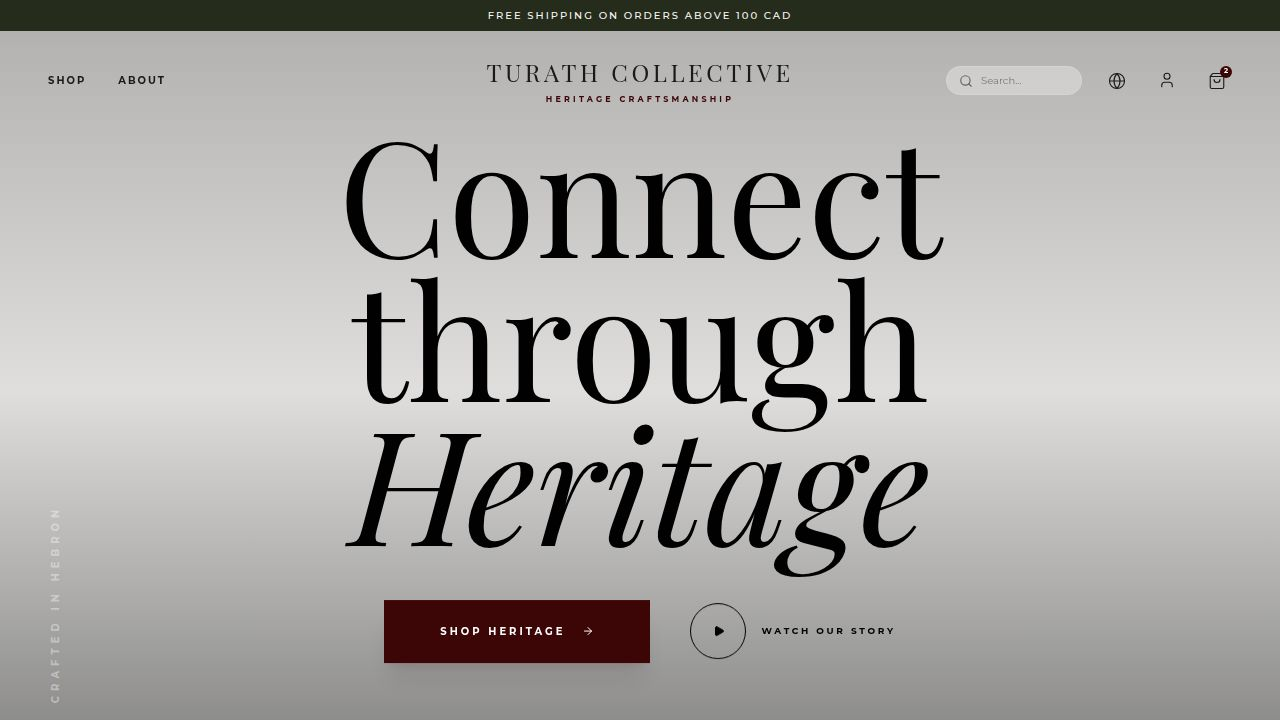
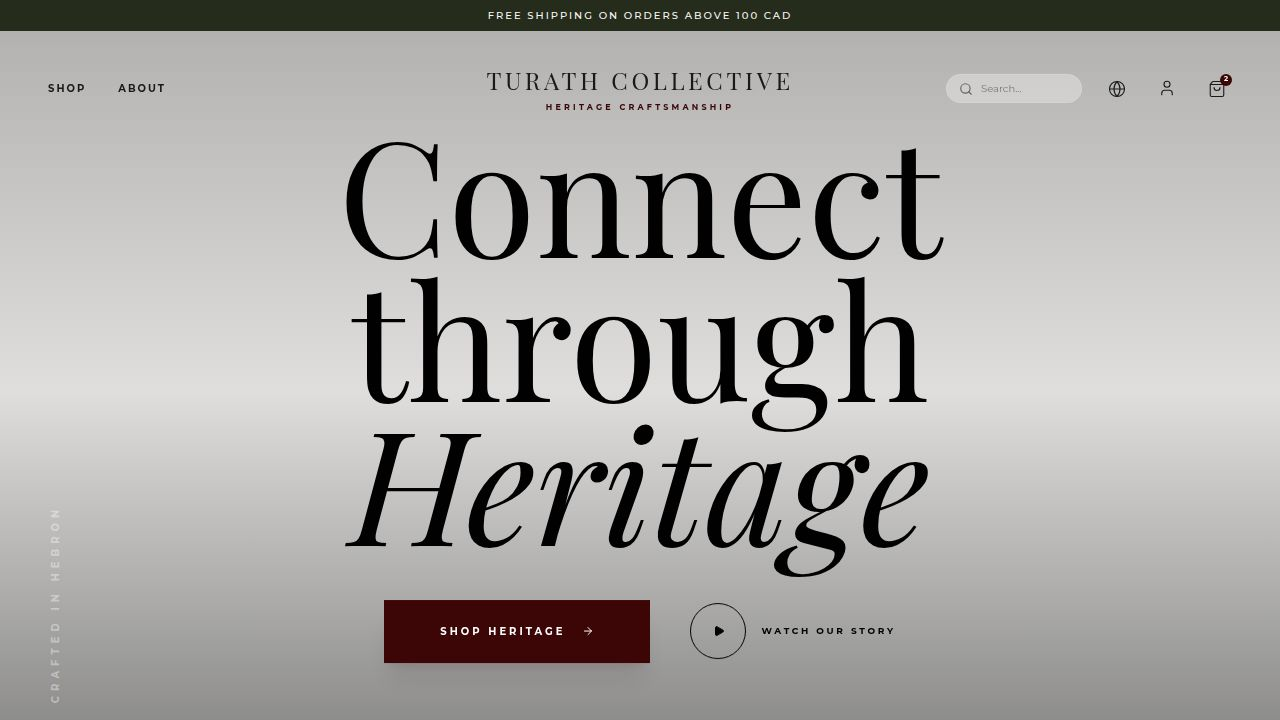
Add a contact page and form for users to send inquiries
Add a new page for users to contact the site, including a form for sending messages.

Replit-Commit-Author: Agent
Replit-Commit-Session-Id: 36f8a871-40c8-4fee-9f35-d568e16de37e
Replit-Commit-Checkpoint-Type: full_checkpoint
Replit-Commit-Event-Id: c0e1cae7-8b10-4ab0-96d2-557cdadff4e2
Replit-Commit-Screenshot-Url: https://storage.googleapis.com/screenshot-production-us-central1/19365814-f28b-4ee9-bb88-485e4eaf0447/36f8a871-40c8-4fee-9f35-d568e16de37e/t9Z69dB
Replit-Helium-Checkpoint-Created: true

diff --git a/client/src/pages/contact.tsx b/client/src/pages/contact.tsx
@@ -1,0 +1,149 @@
+import { motion } from "framer-motion";
+import { Mail, Phone, MapPin, Send } from "lucide-react";
+import { useState } from "react";
+import Navbar from "@/components/navbar";
+import { Button } from "@/components/ui/button";
+import { Input } from "@/components/ui/input";
+import { Label } from "@/components/ui/label";
+import { Textarea } from "@/components/ui/textarea";
+import { useToast } from "@/hooks/use-toast";
+
+export default function ContactPage() {
+  const { toast } = useToast();
+  const [isSubmitting, setIsSubmitting] = useState(false);
+
+  const handleSubmit = async (e: React.FormEvent) => {
+    e.preventDefault();
+    setIsSubmitting(true);
+    
+    // Simulating API call as this is mockup mode
+    // Real implementation would require backend graduation
+    setTimeout(() => {
+      toast({
+        title: "Message Sent",
+        description: "Thank you for reaching out. We'll get back to you soon.",
+      });
+      setIsSubmitting(false);
+      (e.target as HTMLFormElement).reset();
+    }, 1500);
+  };
+
+  return (
+    <main className="min-h-screen bg-background pt-32 pb-24">
+      <Navbar />
+      
+      <div className="container mx-auto px-6 md:px-12">
+        <div className="max-w-5xl mx-auto">
+          <header className="mb-20 text-center">
+            <motion.span 
+              initial={{ opacity: 0, y: 10 }}
+              animate={{ opacity: 1, y: 0 }}
+              className="text-[10px] uppercase tracking-[0.4em] text-primary font-bold mb-4 block"
+            >
+              Get in Touch
+            </motion.span>
+            <motion.h1 
+              initial={{ opacity: 0, y: 20 }}
+              animate={{ opacity: 1, y: 0 }}
+              transition={{ delay: 0.1 }}
+              className="font-serif text-5xl md:text-7xl mb-6"
+            >
+              Connect with <br />
+              <span className="italic font-light">The Collective</span>
+            </motion.h1>
+          </header>
+
+          <div className="grid grid-cols-1 lg:grid-cols-2 gap-20">
+            {/* Contact Info */}
+            <motion.div 
+              initial={{ opacity: 0, x: -20 }}
+              animate={{ opacity: 1, x: 0 }}
+              transition={{ delay: 0.2 }}
+              className="space-y-12"
+            >
+              <div>
+                <h3 className="font-serif text-2xl mb-8">Visit our Montreal Studio</h3>
+                <div className="space-y-6">
+                  <div className="flex gap-4 items-start">
+                    <MapPin className="w-5 h-5 text-primary shrink-0 mt-1" />
+                    <div>
+                      <p className="text-sm font-bold uppercase tracking-widest mb-1">Address</p>
+                      <p className="text-muted-foreground font-light leading-relaxed">
+                        1234 Heritage Way, Plateau Mont-Royal<br />
+                        Montreal, QC H2X 3Y4, Canada
+                      </p>
+                    </div>
+                  </div>
+                  
+                  <div className="flex gap-4 items-start">
+                    <Mail className="w-5 h-5 text-primary shrink-0 mt-1" />
+                    <div>
+                      <p className="text-sm font-bold uppercase tracking-widest mb-1">Email</p>
+                      <p className="text-muted-foreground font-light">hello@turathcollective.com</p>
+                    </div>
+                  </div>
+
+                  <div className="flex gap-4 items-start">
+                    <Phone className="w-5 h-5 text-primary shrink-0 mt-1" />
+                    <div>
+                      <p className="text-sm font-bold uppercase tracking-widest mb-1">Phone</p>
+                      <p className="text-muted-foreground font-light">+1 (514) 555-0123</p>
+                    </div>
+                  </div>
+                </div>
+              </div>
+
+              <div className="pt-12 border-t border-border/50">
+                <h3 className="font-serif text-2xl mb-6">Wholesale & Press</h3>
+                <p className="text-muted-foreground font-light leading-relaxed mb-6">
+                  Interested in partnering with us or featuring our artisans? We'd love to hear from you.
+                </p>
+                <a href="mailto:partners@turathcollective.com" className="text-[10px] uppercase tracking-widest font-bold border-b border-primary/30 pb-1 hover:border-primary transition-colors">
+                  partnerships@turathcollective.com →
+                </a>
+              </div>
+            </motion.div>
+
+            {/* Contact Form */}
+            <motion.div 
+              initial={{ opacity: 0, x: 20 }}
+              animate={{ opacity: 1, x: 0 }}
+              transition={{ delay: 0.3 }}
+              className="bg-white p-10 md:p-12 border border-border/50 shadow-2xl relative"
+            >
+              <form onSubmit={handleSubmit} className="space-y-8">
+                <div className="space-y-2">
+                  <Label className="text-[10px] uppercase tracking-widest font-bold opacity-50">Full Name</Label>
+                  <Input required placeholder="Layla Sami" className="rounded-none border-b border-t-0 border-l-0 border-r-0 focus-visible:ring-0 focus-visible:border-primary px-0 bg-transparent" />
+                </div>
+
+                <div className="space-y-2">
+                  <Label className="text-[10px] uppercase tracking-widest font-bold opacity-50">Email Address</Label>
+                  <Input required type="email" placeholder="layla@example.com" className="rounded-none border-b border-t-0 border-l-0 border-r-0 focus-visible:ring-0 focus-visible:border-primary px-0 bg-transparent" />
+                </div>
+
+                <div className="space-y-2">
+                  <Label className="text-[10px] uppercase tracking-widest font-bold opacity-50">Subject</Label>
+                  <Input placeholder="Inquiry about Ceramics" className="rounded-none border-b border-t-0 border-l-0 border-r-0 focus-visible:ring-0 focus-visible:border-primary px-0 bg-transparent" />
+                </div>
+
+                <div className="space-y-2">
+                  <Label className="text-[10px] uppercase tracking-widest font-bold opacity-50">Message</Label>
+                  <Textarea required placeholder="How can we help you?" className="min-h-[150px] rounded-none border-b border-t-0 border-l-0 border-r-0 focus-visible:ring-0 focus-visible:border-primary px-0 bg-transparent resize-none" />
+                </div>
+
+                <Button 
+                  disabled={isSubmitting}
+                  className="w-full bg-primary hover:bg-primary/90 text-white rounded-none py-7 uppercase tracking-[0.2em] text-[10px] font-bold shadow-xl shadow-primary/20"
+                >
+                  {isSubmitting ? "Sending..." : "Send Message"}
+                  {!isSubmitting && <Send className="w-3.5 h-3.5 ml-2" />}
+                </Button>
+              </form>
+            </motion.div>
+          </div>
+        </div>
+      </div>
+    </main>
+  );
+}

diff --git a/client/src/App.tsx b/client/src/App.tsx
@@ -10,12 +10,14 @@ import CheckoutPage from "@/pages/checkout";
 import LoginPage from "@/pages/login";
 import SignupPage from "@/pages/signup";
 import ShopPage from "@/pages/shop";
+import ContactPage from "@/pages/contact";
 
 function Router() {
   return (
     <Switch>
       <Route path="/" component={Home} />
       <Route path="/shop" component={ShopPage} />
+      <Route path="/contact" component={ContactPage} />
       <Route path="/product/:id" component={ProductPage} />
       <Route path="/checkout" component={CheckoutPage} />
       <Route path="/login" component={LoginPage} />
